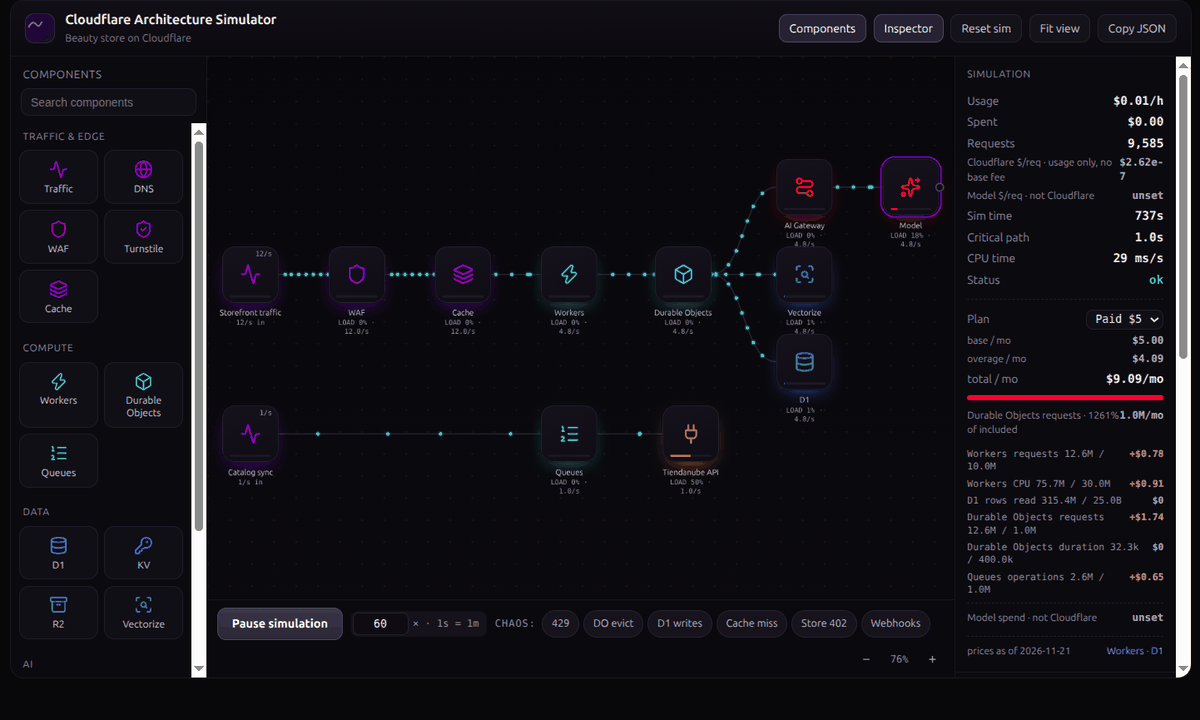
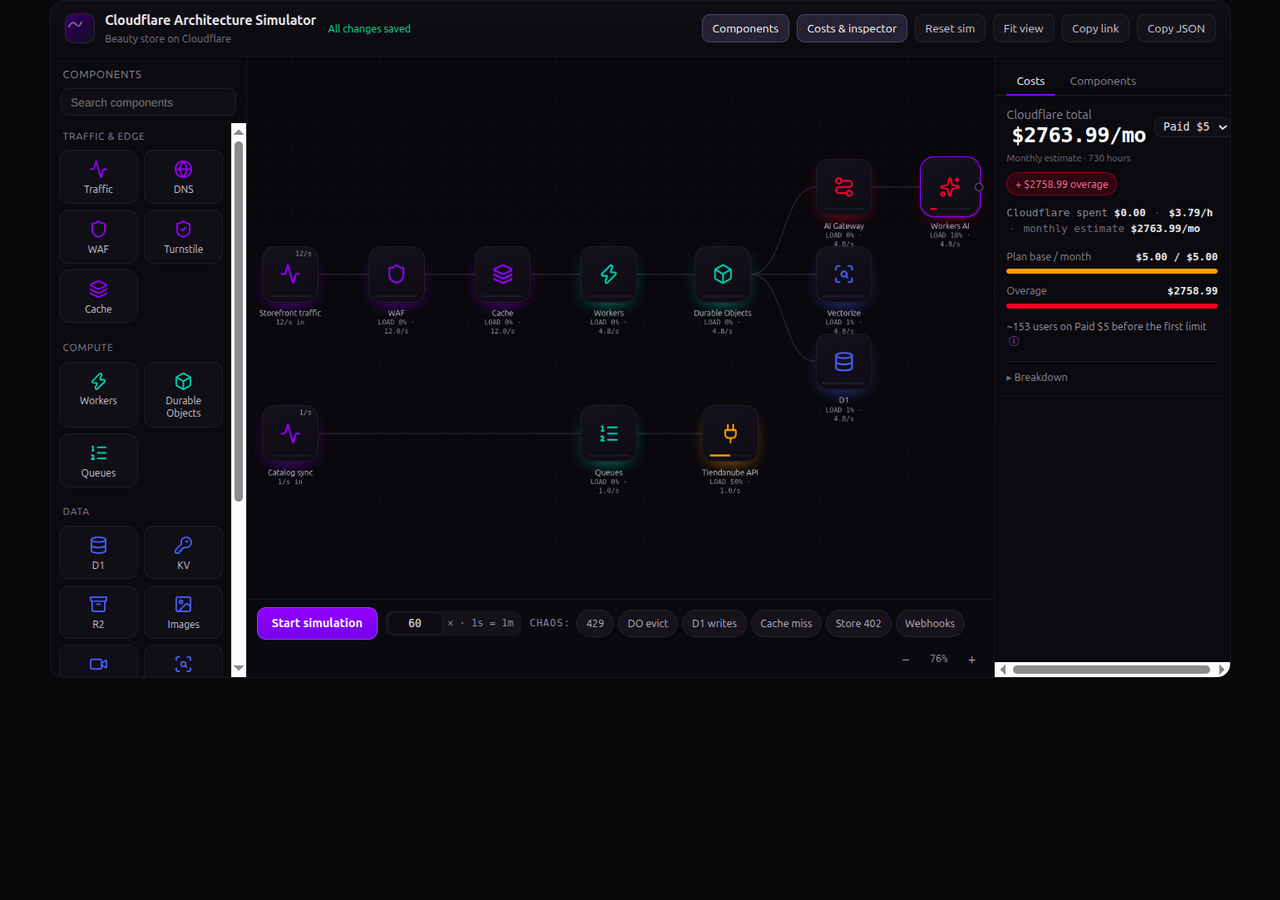
docs: refresh product UX guidance and screenshots

diff --git a/README.md b/README.md
@@ -31,6 +31,14 @@ changes with `npm run typecheck`, `npm run lint`, `npm test`, `npm run check:dis
 `npm run pack:check`; use Orca's browser for UI checks. Keep work on a task branch and leave
 merging and npm publication to the maintainer.
 
+## Product UX
+
+- **Mobile:** Components and Costs & inspector open as bottom sheets over a full-width canvas. Closed panels are inert, and each sheet has a visible close control.
+- **Keyboard:** Tab to canvas nodes, press Enter or Space to select, and press Delete to remove. The inspector's **Connect to** control adds edges without dragging. Costs and Components are ARIA tabs with arrow-key navigation.
+- **Saving:** The header shows local-only, saving, saved, or error state. Failed writes and disconnected live updates keep a persistent alert with Retry when recovery is possible.
+- **Sharing:** **Copy link** uses the existing `#s=` encoder. Links over 8,000 characters fail visibly; use **Copy JSON** instead.
+- **Provenance:** Verified prices and limits are grouped separately from editable workload assumptions. Cloudflare totals and external model spend stay distinct, and monthly figures state the 730-hour estimate period.
+
 ## Engine model
 
 - **Flow follows the edges.** A source emits `rate` requests/second. Every other node passes its
@@ -64,10 +72,10 @@ merging and npm publication to the maintainer.
 - **Chaos uses real time.** The 429, DO eviction, D1 write storm, cache miss, store 402 and
   webhook buttons set expiry with `performance.now()` in **real seconds** (8–12 s depending on
   the button), independently of the simulation-speed multiplier.
-- **Verified vs assumption.** The inspector labels a node `verified in docs` only when
-  `src/catalog.js` carries a `verified` note and a source link. Every other number says
-  `assumption — edit it`; those fields are editable and keep the simulator honest about what is
-  a hard limit and what is a guess.
+- **Verified vs assumption.** The inspector labels documented defaults `Verified default · editable`
+  when `src/catalog.js` carries a `verified` note and a source link. Workload parameters remain
+  `Editable assumption`; those fields are editable and keep the simulator honest about what is
+  a verified limit and what is a guess.
 
 ## Cost model
 
@@ -128,8 +136,8 @@ cross-checks every catalog price against `PRICING.dims`.
 
 ![Custom plan: base fee, monthly budget bar, and model token spend in its own row](docs/images/cost-panel.png)
 
-*The Custom plan with a $10 base fee and a $5,000 budget. The model row shows a separately
-computed token bill; it never enters the Cloudflare total above it.*
+*The Custom plan with a $10 base fee and a $5,000 budget. The external model row stays separate
+from the Cloudflare total and remains `unset` until all token fields are complete.*
 
 ## Install and run
 
@@ -149,7 +157,7 @@ node build.mjs           # -> dist/cloudflare-arch-sim.html (single offline file
 npm run mcp                          # local MCP stdio server; stdout is protocol-only
 node serve.mjs --port 8788            # page + shared scenario channel on 127.0.0.1:8788
 node build.mjs --scenario scenario.json   # offline build with scenario.json embedded
-node --test                            # engine, pricing, model, scenario, server, CLI, APIs, and MCP
+node --test                            # engine, pricing, model, scenario, server, CLI, APIs, MCP, and UX
 ```
 
 `node serve.mjs --port 8788` serves the page at `http://127.0.0.1:8788/`, the live `scenario.json`
@@ -225,8 +233,8 @@ s.nodes.find(n => n.type === 'traffic').p.rate = 25;
 window.__SIM__.load(s);
 window.__SIM__.getState().nodes;   // live util / err / lat / cost per node
 
-// Build a shareable #s= link by hand (there is no Copy link button yet):
-const hash = '#s=' + window.SCENARIO.encode(s); // null if over 8000 chars
+// Copy link builds the same shareable #s= URL; the encoder returns null over 8000 chars:
+const hash = '#s=' + window.SCENARIO.encode(s);
 ```
 
 From a terminal, round-trip the stored file rather than posting a partial object — omitted known
@@ -243,9 +251,11 @@ curl -s -X POST http://127.0.0.1:8788/scenario \
 **Writes and updates:** human edits (a real drag, a new edge, a parameter edit, add/delete) POST
 to `/scenario` debounced by 400 ms; a click that does not move a node publishes nothing. A
 successful atomic write broadcasts the scenario over `/events` with a `clientId`, so other tabs
-converge without echoing the writer's own change. `POST /scenario` requires
-`content-type: application/json` and a `nodes` array; invalid content gets a 400/415, a failing
-write gets a 500, and broadcasting happens only after the write succeeds.
+converge without echoing the writer's own change. The header reports saving and saved states;
+non-400 failures, network rejections, and EventSource disconnects keep a persistent alert with a
+Retry action when recovery is possible. `POST /scenario` requires `content-type: application/json`
+and a `nodes` array; invalid content gets a 400/415, a failing write gets a 500, and broadcasting
+happens only after the write succeeds.
 
 **Lossless round-trip:** every write merges stored unknown data back in. An omitted opaque node,
 an unknown field or param, and an edge attached to a preserved node all come back; removing a
@@ -276,29 +286,30 @@ port can rewrite the file — there is no login or token. Keep it on loopback.
 | `src/agent-api.js` | Versioned API, pure validation/result helpers, provenance, and structured errors |
 | `src/headless-service.js` | Deterministic in-memory host shared by the MCP adapter and `SIM_API` semantics |
 | `packages/mcp/mcp-server.mjs` | MCP stdio tools, resources, prompt, schemas, and `cloudflare-arch-sim-mcp` workspace bin |
+| `src/ux.js` | Pure UX state, tab navigation, field provenance, and keyboard connect helpers |
 | `serve.mjs` | Local page, JSON endpoint, SSE broadcast, atomic writes and Host/Origin checks |
 | `cli.mjs` | npm `bin`: flag parsing and delegation to `serve.mjs`, or `--path` to print the bundled HTML |
 | `build.mjs` | Inlines CSS/JS/icons into `dist/cloudflare-arch-sim.html`; optional `--scenario` snapshot |
 | `scenario.json` | Live source of truth when served by `serve.mjs` |
-| `tests/`, `packages/mcp/test/` | Node built-in tests for engine, pricing, model, scenario, server, CLI, browser/headless APIs, and MCP stdio |
+| `tests/`, `packages/mcp/test/` | Node built-in tests for engine, pricing, model, scenario, server, CLI, browser/headless APIs, MCP stdio, and UX helpers |
 | `docs/images/` | Screenshots used in this README; `dist/` is generated, not hand-edited |
 
 ## Verification and known gaps
 
 `npm test` covers pricing math, catalog/price parity, P0 audit fixtures, queue and Durable Object
 physics, model billing, schema validation, merge rules, the HTTP channel, CLI validation,
-browser/headless API behavior, MCP discovery, and dependency isolation. `npm run typecheck`
-checks the shared state/API/MCP JavaScript, and `npm run lint` checks authored JavaScript for
-undefined, unused, and unreachable code. `npm run check:dist` verifies the tracked bundle against
-a fresh temporary build. Each package's `pack:check` script
-lists only its runtime files; `prepublishOnly` runs the tests and rebuilds the root bundle before
-publication. Prices are the values in `PRICING.dims` with `asOf: 2026-11-24`; adding a component
-or a price means updating `src/catalog.js` and `src/pricing.js` together.
+browser/headless API behavior, UX helpers, MCP discovery, and dependency isolation.
+`npm run typecheck` checks the shared state/API/MCP JavaScript, and `npm run lint` checks authored
+JavaScript for undefined, unused, and unreachable code. `npm run check:dist` verifies the tracked
+bundle against a fresh temporary build. Each package's `pack:check` script lists only its runtime
+files; `prepublishOnly` runs the tests and rebuilds the root bundle before publication. Prices are
+the values in `PRICING.dims` with `asOf: 2026-11-24`; adding a component or a price means updating
+`src/catalog.js` and `src/pricing.js` together.
 
 - The static HTML has no persistence of its own: reloading restarts from the embedded scenario
   (or the built-in template). Only `serve.mjs` provides the file-backed, SSE-driven loop; a plain
   static server gets one `/scenario` probe and no subscriptions.
-- There is no `Copy link` button; `window.SCENARIO.encode(export())` builds a `#s=` link by hand.
+- `Copy link` is limited to 8,000 encoded characters; larger scenarios require `Copy JSON`.
 - Fan-out is calls, not weighted routing: edge `weight` is stored and exported but ignored by
   physics. Cycles are skipped by the topological pass, so nodes in a cycle get zero traffic.
 - Vectorize dimensions, D1 writes/storage, KV writes/storage and R2 infrequent-access retrieval

diff --git a/AGENTS.md b/AGENTS.md
@@ -14,6 +14,7 @@ Read [docs/agent-playbook.md](docs/agent-playbook.md) for executable workflows a
 | `src/agent-api.js` | Versioned browser API, pure validation/result helpers, provenance, and structured errors |
 | `src/headless-service.js` | Deterministic in-memory simulator host using the existing API, engine, catalog, scenario, and pricing modules |
 | `packages/mcp/mcp-server.mjs` | Local MCP stdio adapter, explicit tool schemas, resources, prompt, and bin entry |
+| `src/ux.js` | Pure UX state, tab navigation, field provenance, and keyboard connect helpers |
 | `src/engine.js` | Pure queue capacity, forwarding, backlog, and retention helpers |
 | `src/state-core.mjs` | Pure identity, persistence-status, and runtime snapshot helpers shared by UI, API, and headless hosts; build generates the Node 18 CommonJS companion `src/state-core.cjs` |
 | `src/catalog.js` | Node types, defaults, editable ranges, verified notes, and source links |
@@ -24,7 +25,7 @@ Read [docs/agent-playbook.md](docs/agent-playbook.md) for executable workflows a
 | `cli.mjs` | npm `bin` wrapper and agent-facing flag validation |
 | `build.mjs` | Inlines CSS, JavaScript, and icons into one offline HTML file |
 | `dist/cloudflare-arch-sim.html` | Generated package payload; never hand-edit |
-| `tests/`, `packages/mcp/test/` | Node built-in tests for engine, pricing, scenario, server, CLI, browser/headless APIs, and MCP stdio |
+| `tests/`, `packages/mcp/test/` | Node built-in tests for engine, pricing, scenario, server, CLI, browser/headless APIs, MCP stdio, and UX helpers |
 | `docs/agent-operator.md` | Stable `window.SIM_API` v1 contract plus legacy HTTP/SSE operator behavior |
 | `docs/mcp.md` | MCP stdio configuration, tool/resource/prompt contract, examples, and v1 boundary |
 | `docs/images/` | README screenshots |
@@ -52,7 +53,7 @@ Read [docs/agent-playbook.md](docs/agent-playbook.md) for executable workflows a
 - MCP v1 is an adapter over the same semantics. Its workspace owns the MCP SDK and schema dependencies; the root package does not. It is local stdio only, reserves stdout for protocol frames, sends diagnostics to stderr, and has no filesystem save, merge, network listener, or remote transport.
 - Scenario persistence is revisioned and atomic: v1 `save()` returns revision/hash only after 2xx, uses `If-Match`, and clears dirty only when the saved snapshot is still current.
 - `dist/` is generated. Commit it with source changes; CI validates freshness against a clean temporary build.
-- UI language is English. UI localization/copy work belongs to Phase 2 after P0.
+- UI language is English. Keep Cloudflare totals distinct from external/model spend, and distinguish verified prices/limits from editable assumptions.
 
 ## Commands
 
@@ -129,8 +130,8 @@ Read [docs/agent-playbook.md](docs/agent-playbook.md) for executable workflows a
 
 ### UI
 
-1. Treat `src/index.html`, `src/styles.css`, and `src/app.js` as the presentation layer; keep English copy.
-2. Run `npm run build` and the state-channel smoke test.
+1. Treat `src/index.html`, `src/styles.css`, `src/app.js`, and `src/ux.js` as the presentation layer; keep English copy.
+2. Run `npm test -- tests/ux.test.mjs`, `npm run build`, and the state-channel smoke test.
 3. Use Orca's browser, not a generic browser tool, for visual and console checks:
 
 ```sh
@@ -141,7 +142,7 @@ orca console --page <browserPageId> --limit 50 --json
 orca tab close --page <browserPageId> --json
 ```
 
-4. Replace `<browserPageId>` with the id returned by `tab create`; close the tab and stop the server when finished.
+4. Replace `<browserPageId>` with the id returned by `tab create`; check desktop and 390 px mobile layouts, keyboard node/tab interaction, closed-panel focus behavior, and the console. Close the tab and stop the server when finished.
 
 ### Docs and agent tooling
 

diff --git a/docs/agent-playbook.md b/docs/agent-playbook.md
@@ -128,8 +128,8 @@ npm run check:dist
 
 ### UI
 
-1. Change [src/index.html](../src/index.html), [src/styles.css](../src/styles.css), or [src/app.js](../src/app.js) while keeping English copy.
-2. Build and start the server, then inspect it in Orca's browser:
+1. Change [src/index.html](../src/index.html), [src/styles.css](../src/styles.css), [src/app.js](../src/app.js), or [src/ux.js](../src/ux.js) while keeping English copy.
+2. Run `npm test -- tests/ux.test.mjs`, build, and start the server, then inspect it in Orca's browser:
 
 ```sh
 npm run build
@@ -140,7 +140,7 @@ orca console --page <browserPageId> --limit 50 --json
 orca tab close --page <browserPageId> --json
 ```
 
-3. Replace `<browserPageId>` with the returned id. Exercise the changed control, take a snapshot after async updates, and confirm the console has no new errors.
+3. Replace `<browserPageId>` with the returned id. Exercise the changed control, take a snapshot after async updates, and confirm the console has no new errors. For responsive or accessibility work, also check 390 px mobile sheets, inert closed panels, keyboard node selection/delete, ARIA tab arrow keys, and visible focus.
 4. Close the browser tab and stop the server. Do not substitute a generic browser tool.
 
 ### MCP

diff --git a/skills/cloudflare-arch-sim/SKILL.md b/skills/cloudflare-arch-sim/SKILL.md
@@ -17,7 +17,7 @@ Load this skill for repository changes or for using the simulator to design/eval
 - Preserve M/M/c, full fan-out, cache forwarding, simulated-time queue backlog, retention drops, and separate Cloudflare/model spend.
 - Never hand-edit `dist/`; rebuild it and keep it fresh.
 - Preserve unknown scenario data and lossless merge behavior.
-- Keep UI work in English and defer localization/copy changes to Phase 2 after P0.
+- Keep UI copy in English, Cloudflare totals distinct from external/model spend, and verified prices/limits distinct from editable assumptions.
 - Use Orca's browser for UI checks.
 - Treat `window.SIM_API` v1 as the stable browser agent contract; treat `window.__SIM__`, HTTP/SSE, and DOM controls as compatibility surfaces.
 - Treat MCP v1 as a local stdio adapter over the same semantics. It has no filesystem save, merge, network listener, or remote transport; stdout is protocol-only.
@@ -71,4 +71,5 @@ Return changed files or design findings, commands/results, request IDs/errors, r
 - `../../src/pricing.js`
 - `../../src/engine.js`
 - `../../src/app.js`
+- `../../src/ux.js`
 - `../../scenario.json`
